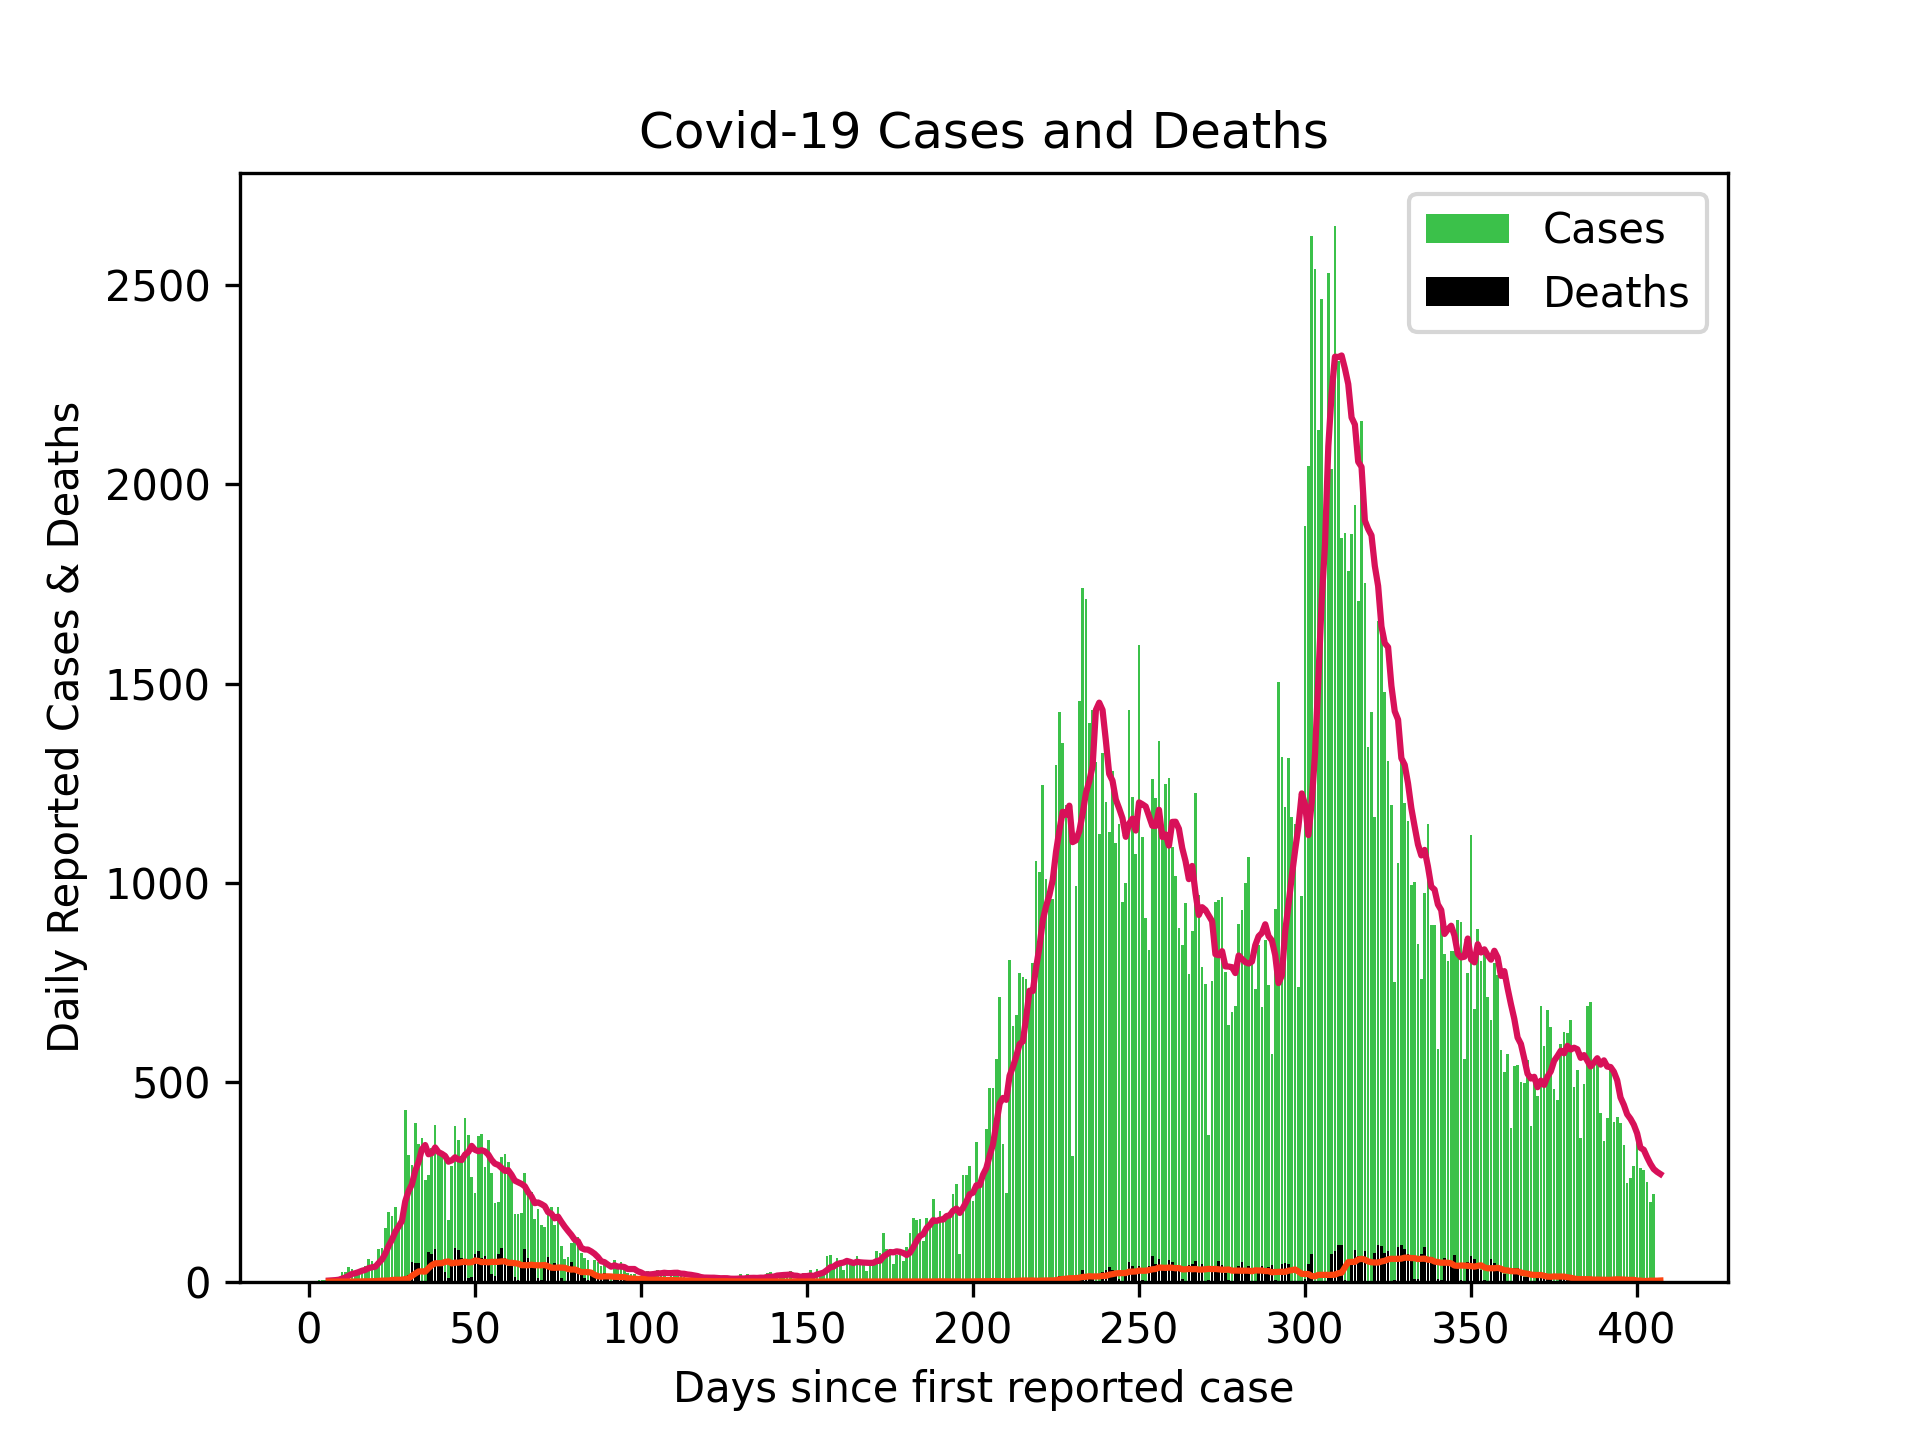
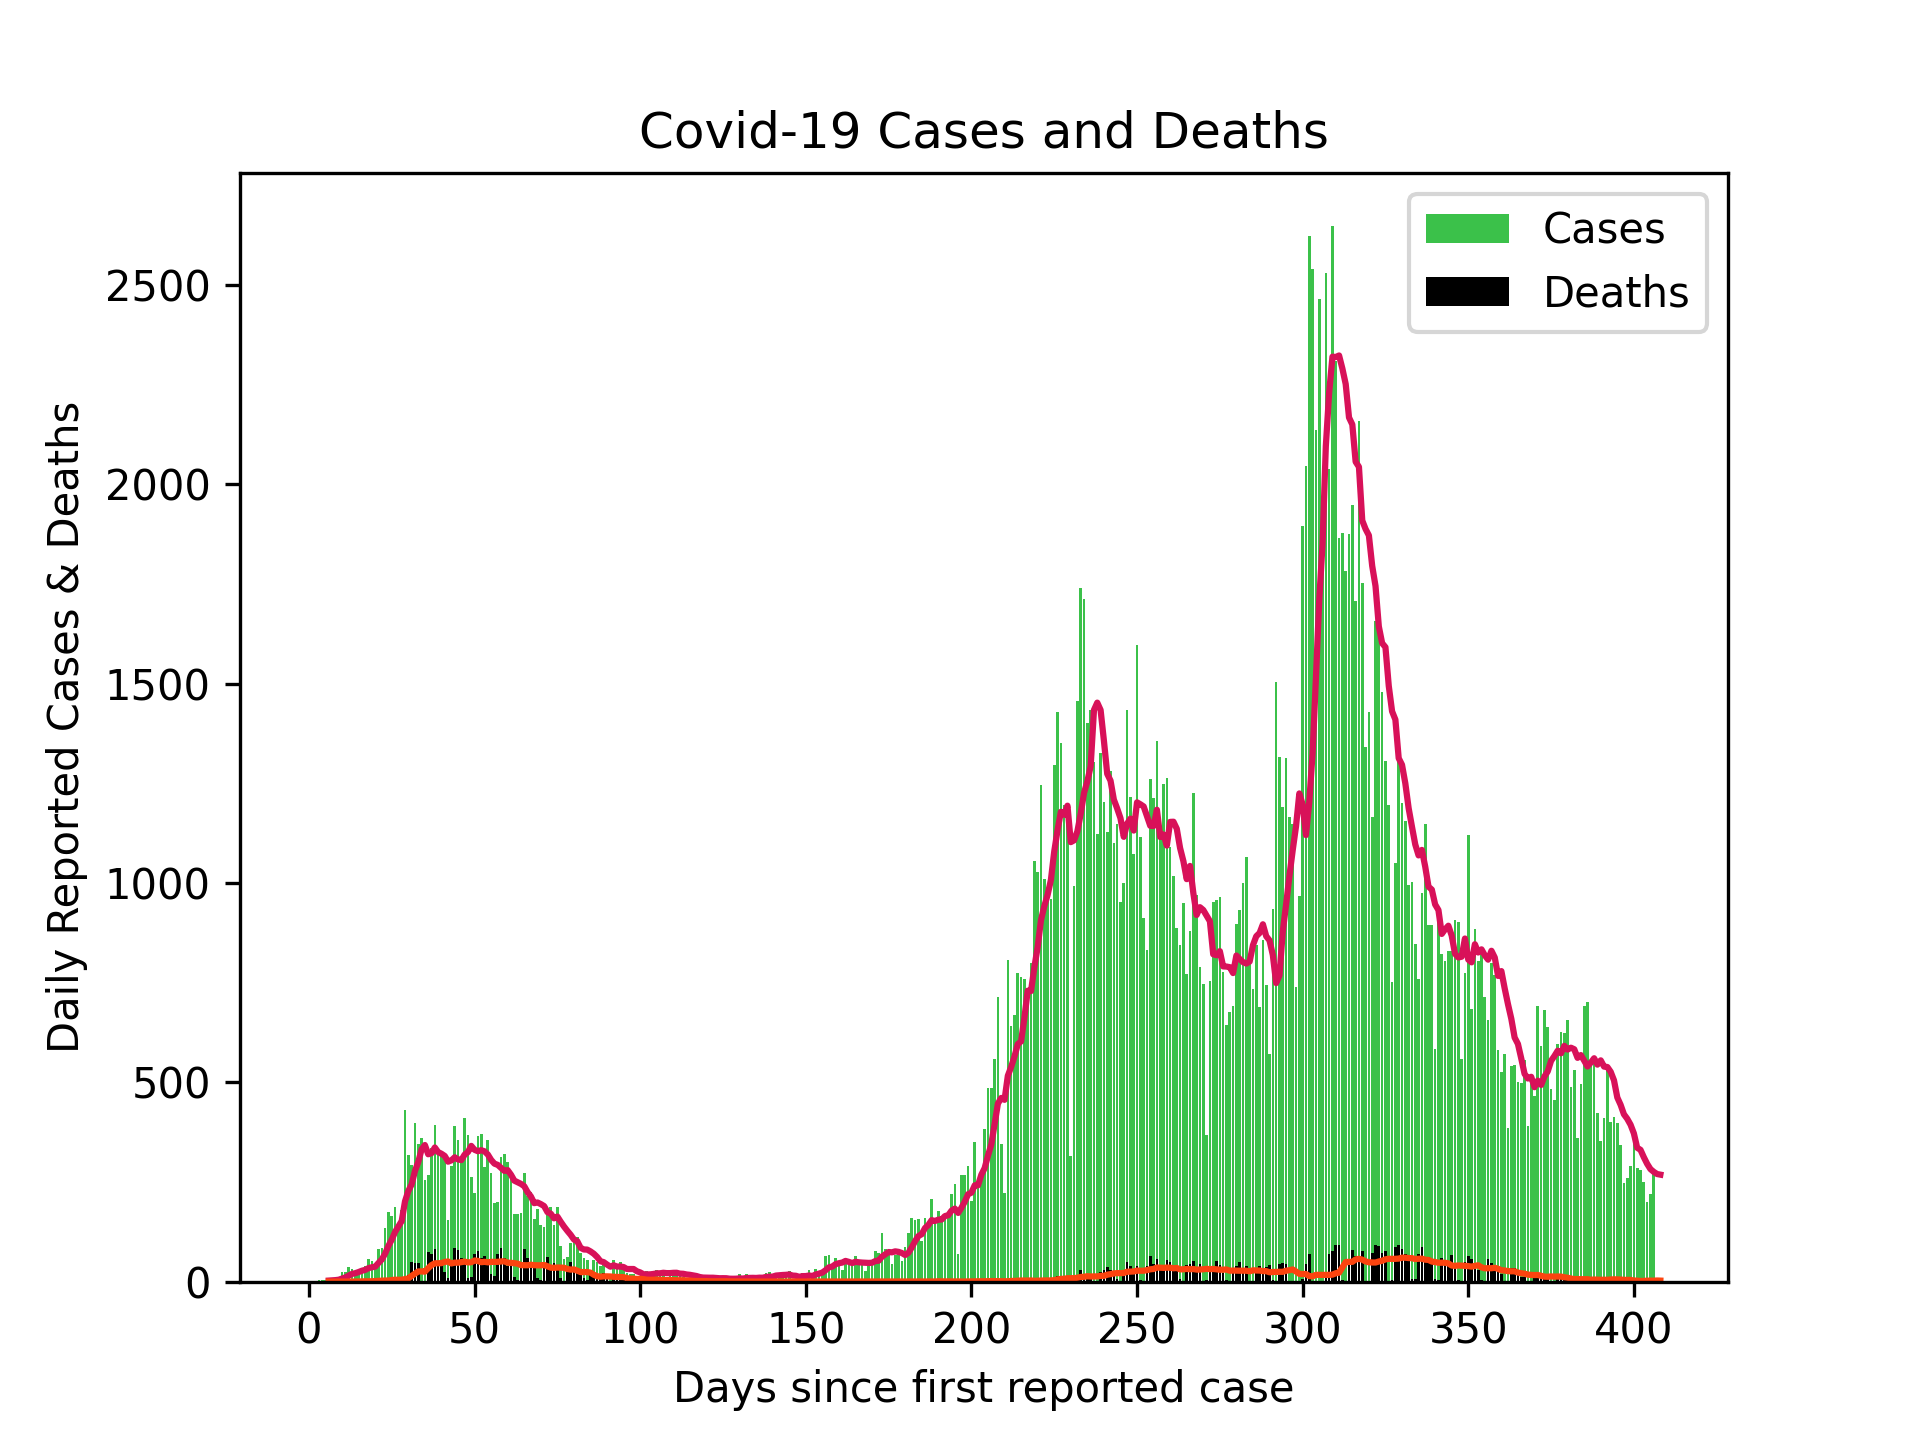
Updated Scottish cases 14/04/21

diff --git a/README.md b/README.md
@@ -1,4 +1,4 @@
-# Scottish Cases 13/04/21
+# Scottish Cases 14/04/21
 
 ![alt](scottish_cases.png)
 
